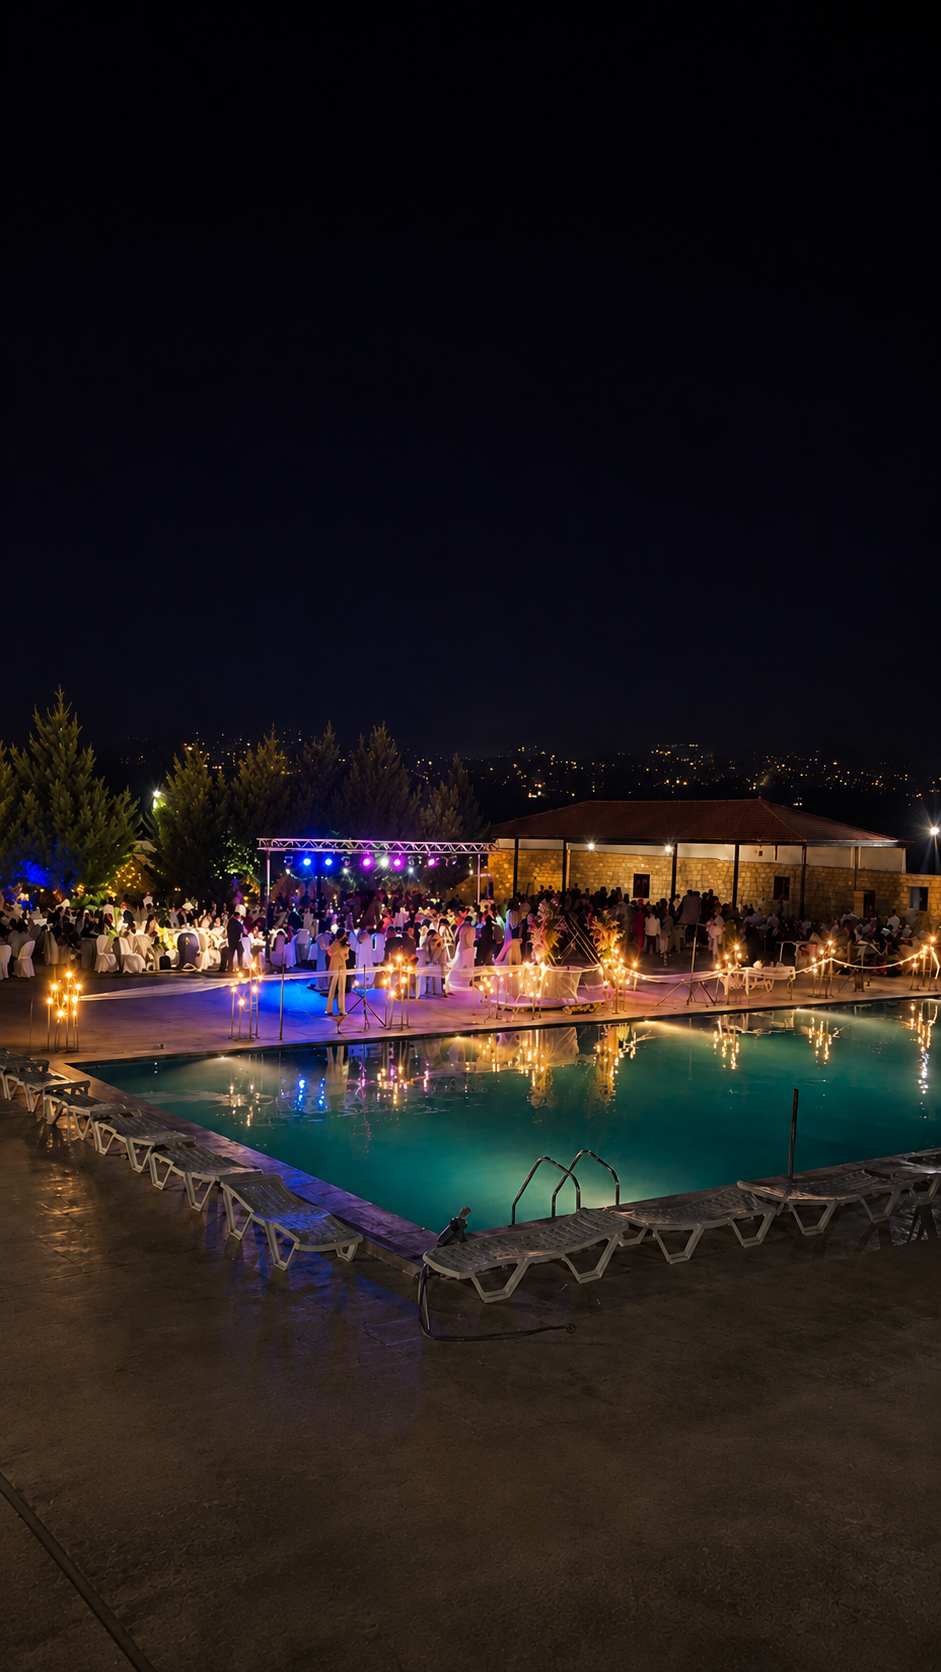
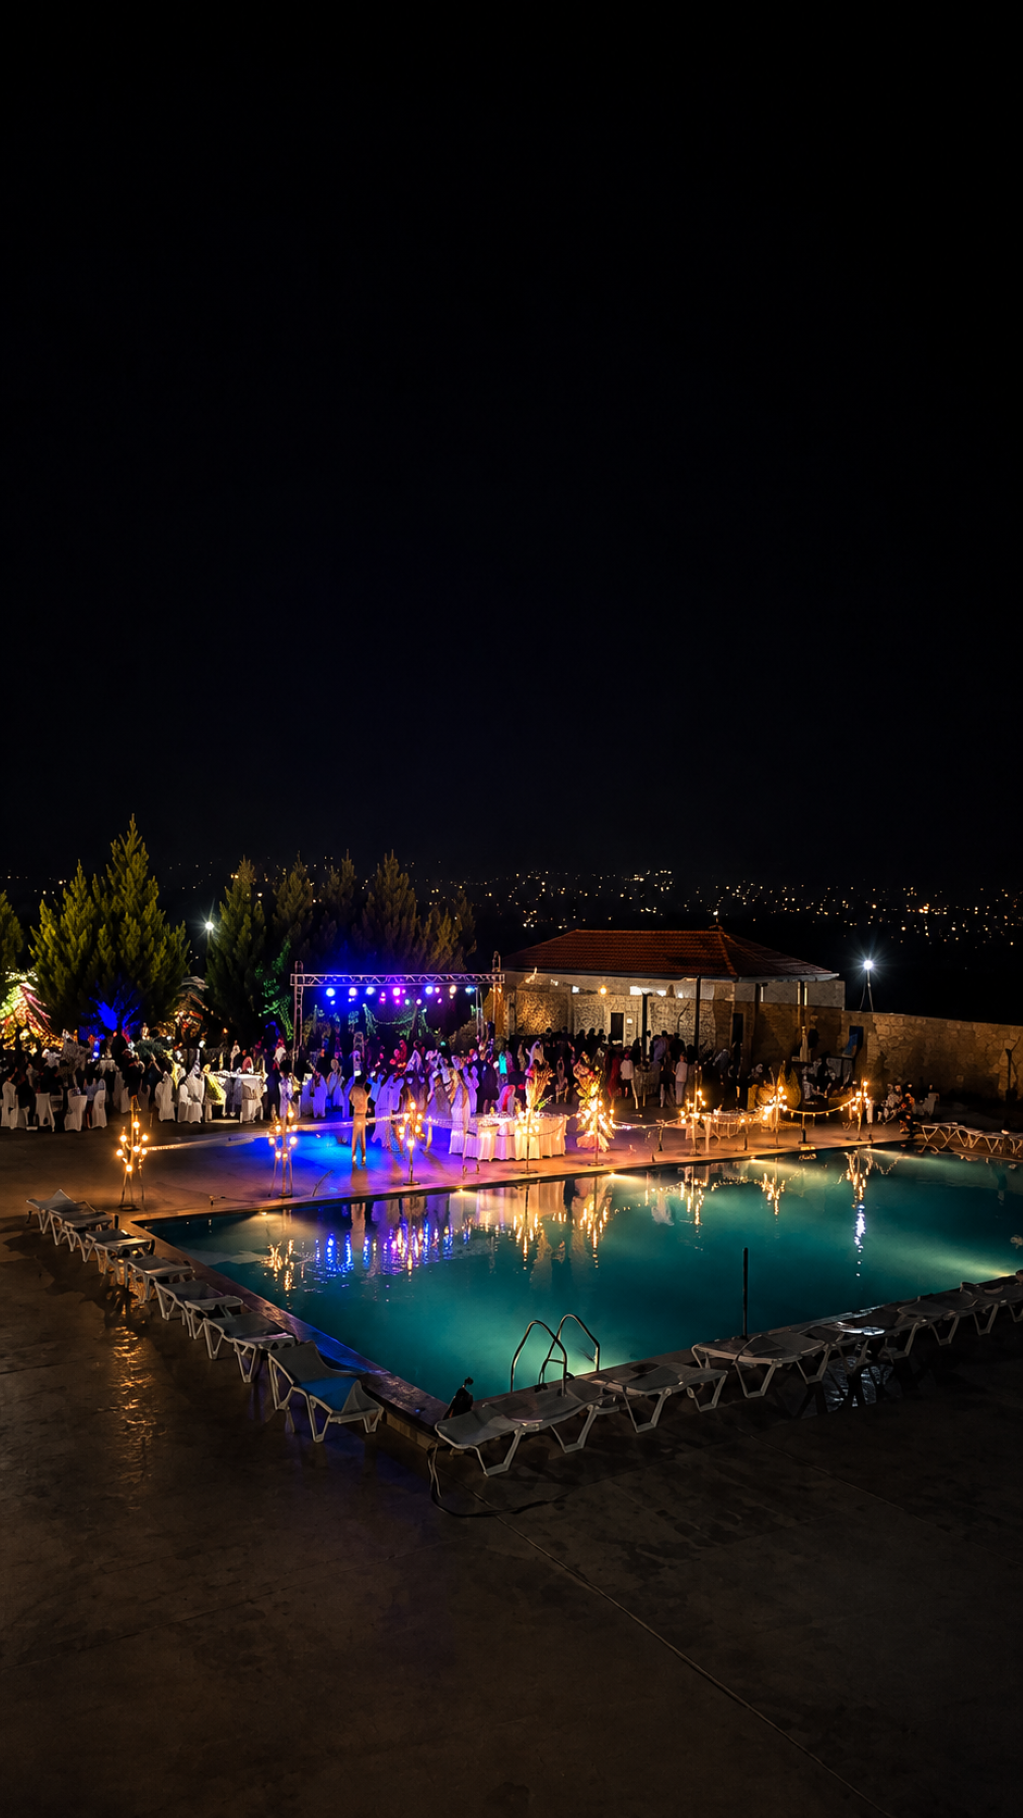
fixing

diff --git a/app/components/InvitationPlayer.tsx b/app/components/InvitationPlayer.tsx
@@ -237,6 +237,8 @@ const SLIDES = gallery.length > 0
 const bgImages = safeEvent.bg_images || {};
 const [assetsReady, setAssetsReady] = useState(false);
 const [loadingProgress, setLoadingProgress] = useState(0);
+// ✅ total number of assets being tracked, computed once the preload task list is built
+const [totalAssets, setTotalAssets] = useState(1);
 const [photoIndex, setPhotoIndex] = useState(0);
 const [photoOffset, setPhotoOffset] = useState(0);
 const [isDragging, setIsDragging] = useState(false);
@@ -358,62 +360,77 @@ audio.oncanplay = finish;
     // Safari fallback
     setTimeout(finish, 5000);
   });
+
+// ✅ REWORKED PRELOAD: the envelope video loads FIRST, on its own, so it
+// isn't competing for bandwidth with every image/audio request. Only once
+// it has fully buffered do we kick off the rest of the assets (images,
+// music, other background video) in parallel. Nothing — including the
+// opening video/animation — is shown until everything is done, so the
+// loading screen stays up the whole time and the video never appears
+// half-loaded (which is what was causing the white flash).
 useEffect(() => {
     let mounted = true;
 
     const preload = async () => {
+        let loadedCount = 0;
+        // +1 slot reserved for the envelope video counted below
+        const track = (p: Promise<void>) =>
+            p.then(() => {
+                loadedCount += 1;
+                if (mounted) setLoadingProgress(loadedCount);
+            });
 
-    // =========================
-    // PHASE 1 (CRITICAL)
-    // =========================
+        // --- STEP 1: envelope video, loaded alone and first ---
+        await track(loadVideo("/envelope/envelope.mp4"));
+        if (mounted) setLoadingProgress(loadedCount);
 
-    await Promise.all([
+        // --- STEP 2: everything else, in parallel ---
+        const tasks: Promise<void>[] = [];
 
-        loadVideo("/envelope/envelope.mp4"),
+        // Cover image
+        if (safeEvent.cover_image) {
+            tasks.push(track(loadImage(getOptimizedSrc(safeEvent.cover_image))));
+        }
 
-        safeEvent.cover_image
-            ? loadImage(getOptimizedSrc(safeEvent.cover_image))
-            : Promise.resolve(),
+        // Music
+        if (safeEvent.music_url) {
+            tasks.push(track(loadAudio(safeEvent.music_url)));
+        }
 
-        safeEvent.music_url
-            ? loadAudio(safeEvent.music_url)
-            : Promise.resolve(),
+        // Background images (per-slide)
+        Object.values(safeEvent.bg_images || {}).forEach((src) => {
+            if (src) tasks.push(track(loadImage(getOptimizedSrc(src))));
+        });
 
-    ]);
+        // Gallery / photos page images
+        safeEvent.gallery?.forEach((src) => {
+            if (src) tasks.push(track(loadImage(getOptimizedSrc(src))));
+        });
 
-    if (mounted) {
-        setLoadingProgress(3);
-        setAssetsReady(true);
-    }
+        // Ending photo
+        if (safeEvent.ending_photo) {
+            tasks.push(track(loadImage(getOptimizedSrc(safeEvent.ending_photo))));
+        }
 
-    // =========================
-    // PHASE 2 (BACKGROUND)
-    // =========================
+        // Static template background images
+        tasks.push(track(loadImage("/bg-images/Church.jpeg")));
+        tasks.push(track(loadImage("/bg-images/restaurant.png")));
 
-    const tasks: Promise<void>[] = [];
+        // Optional background video
+        if (safeEvent.bg_video) {
+            tasks.push(track(loadVideo(safeEvent.bg_video)));
+        }
 
-    Object.values(safeEvent.bg_images || {}).forEach((src) => {
-        if (src) tasks.push(loadImage(getOptimizedSrc(src)));
-    });
+        // total = the envelope video (already counted) + everything else
+        if (mounted) setTotalAssets(Math.max(tasks.length + 1, 1));
 
-    safeEvent.gallery?.forEach((src) => {
-        tasks.push(loadImage(getOptimizedSrc(src)));
-    });
+        // Wait for every remaining asset to finish before proceeding
+        await Promise.all(tasks);
 
-    if (safeEvent.ending_photo)
-        tasks.push(loadImage(getOptimizedSrc(safeEvent.ending_photo)));
-
-    tasks.push(loadImage("/bg-images/Church.jpeg"));
-    tasks.push(loadImage("/bg-images/restaurant.png"));
-
-    if (safeEvent.bg_video)
-        tasks.push(loadVideo(safeEvent.bg_video));
-
-    await Promise.all(tasks);
-};
-
-
-
+        if (mounted) {
+            setAssetsReady(true);
+        }
+    };
 
     preload();
 
@@ -421,6 +438,7 @@ useEffect(() => {
         mounted = false;
     };
 }, []);
+
 useEffect(() => {
     if (assetsReady && openingVideoReady) {
         setInitialLoading(false);
@@ -558,8 +576,6 @@ const submitRSVP = async () => {
 
 
   
-
-const totalAssets = 3;
 
 const progressPercent = Math.min(
   (loadingProgress / Math.max(totalAssets, 1)) * 100,
@@ -735,7 +751,15 @@ const templateProps = {
 return (
     <>
 {initialLoading && (
-    <div className="loading-screen">
+    <div
+        className="loading-screen"
+        style={{
+            position: "fixed",
+            inset: 0,
+            zIndex: 9999,
+            background: "#000",
+        }}
+    >
         <div className="loading-spinner" />
         <div className="loading-title">
             Preparing your experience...
@@ -762,32 +786,41 @@ return (
     </ThemeProvider>
 )}
 
-        <div
-    style={{
-        visibility: showOverlay ? "visible" : "hidden",
-        pointerEvents: showOverlay ? "auto" : "none",
-    }}
->
-    <OpeningAnimation
-        image={
-            safeEvent.cover_image ||
-            safeEvent.ending_photo ||
-            Object.values(safeEvent.bg_images || {})[0] ||
-            ""
-        }
-initials={initials}
-        onReady={() => setOpeningVideoReady(true)}
-        onStart={async () => {
-            try {
-                if (audioRef.current) {
-                    audioRef.current.muted = false;
-                    await audioRef.current.play();
-                }
-            } catch {}
-        }}
-        onFinish={handleOpenInvitation}
-    />
-</div>
+        {/* ✅ Opening animation/video only mounts once every asset above has
+            finished loading (assetsReady). Until then, only the loading
+            screen is visible. */}
+        {assetsReady && (
+            <div
+                style={{
+                    visibility: showOverlay ? "visible" : "hidden",
+                    pointerEvents: showOverlay ? "auto" : "none",
+                    position: "fixed",
+                    inset: 0,
+                    background: "#000",
+                    zIndex: 9998,
+                }}
+            >
+                <OpeningAnimation
+                    image={
+                        safeEvent.cover_image ||
+                        safeEvent.ending_photo ||
+                        Object.values(safeEvent.bg_images || {})[0] ||
+                        ""
+                    }
+                    initials={initials}
+                    onReady={() => setOpeningVideoReady(true)}
+                    onStart={async () => {
+                        try {
+                            if (audioRef.current) {
+                                audioRef.current.muted = false;
+                                await audioRef.current.play();
+                            }
+                        } catch {}
+                    }}
+                    onFinish={handleOpenInvitation}
+                />
+            </div>
+        )}
 
     </>
 );

diff --git a/app/components/templates/minimalist/minimalist.css b/app/components/templates/minimalist/minimalist.css
@@ -817,30 +817,25 @@ background:rgba(0,0,0,.45);
 .celebration-hero{
     position:relative;
     width:100%;
-    min-height:0px;
+    min-height:720px;
 
     display:flex;
     justify-content:center;
     align-items:center;
 
     overflow:hidden;
+    background:#000;
 }
 
 .celebration-image{
     position:absolute;
     inset:0;
-transform:translateZ(0);
--webkit-transform:translateZ(0);
 
-backface-visibility:hidden;
--webkit-backface-visibility:hidden;
-
-image-rendering:auto;
     width:100%;
     height:100%;
 
     object-fit:cover;
-    object-position:center;
+    object-position:center center;
 
     z-index:0;
 }
